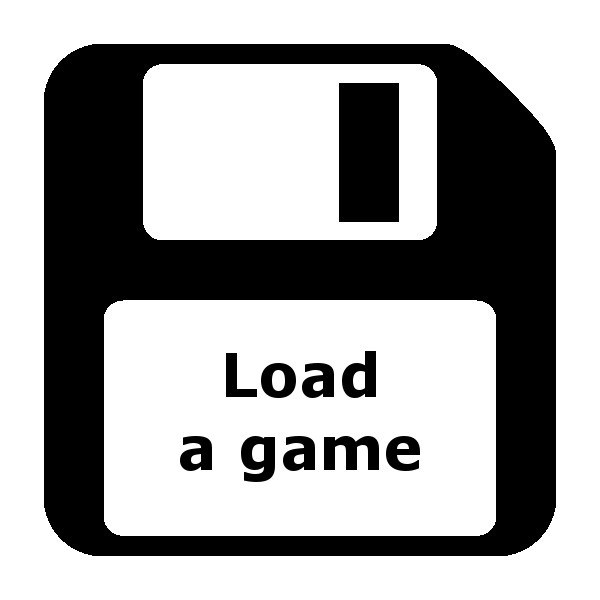
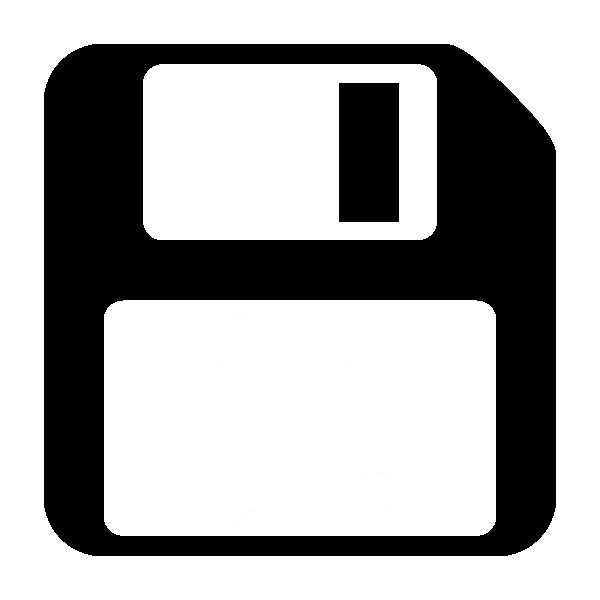
Language Integration + Chapter 8 Init
Language Integration + Chapter 8 Init

Changed region(s): [[0.39, 0.72, 0.72, 0.81], [0.36, 0.57, 0.63, 0.66], [0.3, 0.72, 0.36, 0.81]]

diff --git a/C007_LunchBreak/Outro/Script.js b/C007_LunchBreak/Outro/Script.js
@@ -24,35 +24,31 @@ function C007_LunchBreak_Outro_Run() {
 	// Text for eating alone
 	if (C007_LunchBreak_ActorSelect_Actor == "") {
 		if (TextPhase >= 0) DrawText(ctx, GetText("EatAlone1"), 400, 150, "White");
-		if (TextPhase >= 1) DrawText(ctx, GetText("EatAlone2"), 400, 250, "White");
-		if (TextPhase >= 2) DrawText(ctx, GetText("EatAlone3"), 400, 350, "White");
-		if (TextPhase >= 3) DrawText(ctx, GetText("EatAlone4"), 400, 450, "White");
+		if (TextPhase >= 1) DrawText(ctx, GetText("EatAlone2"), 400, 300, "White");
+		if (TextPhase >= 2) DrawText(ctx, GetText("EatAlone3"), 400, 450, "White");
 	}
 
 	// Text for no food leave
 	if ((C007_LunchBreak_ActorSelect_Actor != "") && C007_LunchBreak_ActorSelect_NoFood) {
 		if (TextPhase >= 0) DrawText(ctx, GetText("NoFood1"), 400, 150, "White");
-		if (TextPhase >= 1) DrawText(ctx, GetText("NoFood2"), 400, 250, "White");
-		if (TextPhase >= 2) DrawText(ctx, GetText("NoFood3"), 400, 350, "White");
-		if (TextPhase >= 3) DrawText(ctx, GetText("NoFood4"), 400, 450, "White");
+		if (TextPhase >= 1) DrawText(ctx, GetText("NoFood2"), 400, 300, "White");
+		if (TextPhase >= 2) DrawText(ctx, GetText("NoFood3"), 400, 450, "White");
 	}
 
 	// Text for early/evil leave
 	if ((C007_LunchBreak_ActorSelect_Actor != "") && (C007_LunchBreak_ActorSelect_EarlyLeave || C007_LunchBreak_ActorSelect_EvilEnding) && !C007_LunchBreak_ActorSelect_NoFood) {
 		if ((TextPhase >= 0) && !C007_LunchBreak_ActorSelect_EvilEnding) DrawText(ctx, GetText("Early1"), 400, 150, "White");
 		if ((TextPhase >= 0) && C007_LunchBreak_ActorSelect_EvilEnding) DrawText(ctx, GetText("Evil1"), 400, 150, "White");
-		if (TextPhase >= 1) DrawText(ctx, GetText("EvilEarly2"), 400, 250, "White");
-		if (TextPhase >= 2) DrawText(ctx, GetText("EvilEarly3"), 400, 350, "White");
-		if (TextPhase >= 3) DrawText(ctx, GetText("EvilEarly4"), 400, 450, "White");
+		if (TextPhase >= 1) DrawText(ctx, GetText("EvilEarly2"), 400, 300, "White");
+		if (TextPhase >= 2) DrawText(ctx, GetText("EvilEarly3"), 400, 450, "White");
 	}
 
 	// Text for eating with someone
 	if ((C007_LunchBreak_ActorSelect_Actor != "") && !C007_LunchBreak_ActorSelect_EarlyLeave && !C007_LunchBreak_ActorSelect_EvilEnding && !C007_LunchBreak_ActorSelect_NoFood) {
 		if (TextPhase >= 0) DrawText(ctx, GetText("RegularBonus1"), 400, 150, "White");
-		if ((TextPhase >= 1) && C007_LunchBreak_ActorSelect_BonusDone) DrawText(ctx, GetText("Bonus2"), 400, 250, "White");
-		if ((TextPhase >= 1) && !C007_LunchBreak_ActorSelect_BonusDone) DrawText(ctx, GetText("Regular2"), 400, 250, "White");
-		if (TextPhase >= 2) DrawText(ctx, GetText("RegularBonus3"), 400, 350, "White");
-		if (TextPhase >= 3) DrawText(ctx, GetText("RegularBonus4"), 400, 450, "White");
+		if ((TextPhase >= 1) && C007_LunchBreak_ActorSelect_BonusDone) DrawText(ctx, GetText("Bonus2"), 400, 300, "White");
+		if ((TextPhase >= 1) && !C007_LunchBreak_ActorSelect_BonusDone) DrawText(ctx, GetText("Regular2"), 400, 300, "White");
+		if (TextPhase >= 2) DrawText(ctx, GetText("RegularBonus3"), 400, 450, "White");
 	}
 	
 }
@@ -64,8 +60,8 @@ function C007_LunchBreak_Outro_Click() {
 	TextPhase++;
 			
 	// Jump to lunch on phase 3
-	if (TextPhase >= 4) {
-		//SaveMenu("C008", "Intro");
+	if (TextPhase >= 3) {
+		SaveMenu("C008_DramaClass", "Intro");
 	}
 
 }

diff --git a/Common.js b/Common.js
@@ -125,8 +125,8 @@ function ReadCSV(Array, FileName) {
 
 // Returns a working language if translation isn't fully ready
 function GetWorkingLanguage() {
-	if ((CurrentLanguageTag == "FR") && ((CurrentChapter == "C000_Intro") || (CurrentChapter == "C001_BeforeClass") || (CurrentChapter == "C999_Common"))) return "FR";
-	if ((CurrentLanguageTag == "CN") && (CurrentChapter == "C000_Intro")) return "CN";
+	if ((CurrentLanguageTag == "FR") && ((CurrentChapter == "C000_Intro") || (CurrentChapter == "C001_BeforeClass") || (CurrentChapter == "C002_FirstClass") || (CurrentChapter == "C999_Common"))) return "FR";
+	if ((CurrentLanguageTag == "CN") && ((CurrentChapter == "C000_Intro") || (CurrentChapter == "C005_GymClass") || (CurrentChapter == "C999_Common"))) return "CN";
 	return "EN";
 }
 
@@ -208,7 +208,7 @@ function GetText(Tag) {
 		Tag = Tag.trim().toUpperCase();
 		for (var T = 0; T < CurrentText.length; T++)
 			if (CurrentText[T][TextTag].trim().toUpperCase() == Tag)
-				return CurrentText[T][TextContent];
+				return CurrentText[T][TextContent].trim();
 		
 		// Returns an error message
 		return "MISSING TEXT FOR TAG: " + Tag;

diff --git a/C008_DramaClass/Intro/Script.js b/C008_DramaClass/Intro/Script.js
@@ -1,0 +1,28 @@
+// Chapter 8 - Drama Class Load
+function C008_DramaClass_Intro_Load() {
+
+	// Time is always 13:00 on the intro, no timer
+	StopTimer(13.00 * 60 * 60 * 1000);
+	
+}
+
+// Chapter 8 - Drama Class Run
+function C008_DramaClass_Intro_Run() {
+	
+	// Paints the background
+	var ctx = document.getElementById("MainCanvas").getContext("2d");
+	DrawImage(ctx, CurrentChapter + "/" + CurrentScreen + "/Background.jpg", 0, 0);
+
+	// Write the chapter introduction
+	DrawText(ctx, GetText("Intro1"), 600, 150, "White");
+	if (TextPhase >= 1) DrawText(ctx, GetText("Intro2"), 600, 250, "White");
+	if (TextPhase >= 2) DrawText(ctx, GetText("Intro3"), 600, 350, "White");
+	if (TextPhase >= 3) DrawText(ctx, GetText("Intro4"), 600, 450, "White");
+
+}
+
+// Chapter 8 - Drama Class Click
+function C008_DramaClass_Intro_Click() {
+	TextPhase++;
+	if (TextPhase >= 4) SetScene(CurrentChapter, "JuliaIntro");
+}

diff --git a/SaveState.js b/SaveState.js
@@ -19,7 +19,7 @@ function SaveStateGetSummary(SlotNumber) {
 		if (localStorage.getItem("SaveGameVersion" + SN) == SaveGameVersion) {
 			var SaveStateChapter = localStorage.getItem("CurrentChapter" + SN);
 			var SaveStateDateTime = localStorage.getItem("SaveGameDateTime" + SN);
-			Summary = "Slot " + SN + " - Chapter " + SaveStateChapter.substring(3, 4) + "|" + SaveStateDateTime;
+			Summary = GetText("Slot") + " " + SN + " - " + GetText("Chapter") + " " + SaveStateChapter.substring(3, 4) + "|" + SaveStateDateTime;
 		}
 		
 	// Returns the summary
@@ -31,7 +31,7 @@ function SaveStateGetSummary(SlotNumber) {
 function SaveStateSlotSummary() {
 
 	// If the current stage is loaded
-	if (CurrentStage != null)
+	if ((CurrentStage != null) && (CurrentText != null))
 		if (CurrentStage[1][StageInteractionText] == "Slot 1") {
 
 			// For each save slots, we load the summary

diff --git a/C008_DramaClass/JuliaIntro/Script.js b/C008_DramaClass/JuliaIntro/Script.js
@@ -1,0 +1,30 @@
+var C008_DramaClass_JuliaIntro_CurrentStage = 0;
+
+// Chapter 8 - Julia Intro Load
+function C008_DramaClass_JuliaIntro_Load() {
+
+	// Set the timer limits at 14:00
+	StartTimer(14 * 60 * 60 * 1000, "C008_DramaClass", "Outro");
+
+	// Load the scene parameters
+	ActorLoad("Julia", "");
+	LoadInteractions();
+	LeaveIcon = "";
+	
+	// If Julia doesn't like the player, we skip the "hug" intro
+	if (ActorGetValue(ActorLove) < 1) C008_DramaClass_JuliaIntro_CurrentStage = 20;
+
+}
+
+// Chapter 8 - Julia Intro Run
+function C008_DramaClass_JuliaIntro_Run() {
+	BuildInteraction(C008_DramaClass_JuliaIntro_CurrentStage);
+}
+
+// Chapter 8 - Julia Click
+function C008_DramaClass_JuliaIntro_Click() {	
+
+	// Regular interactions
+	ClickInteraction(C008_DramaClass_JuliaIntro_CurrentStage);
+
+}

diff --git a/index.html b/index.html
@@ -79,6 +79,8 @@
 <script src="C007_LunchBreak/Jennifer/Script.js"></script>
 <script src="C007_LunchBreak/JenniferTennis/Script.js"></script>
 <script src="C007_LunchBreak/Outro/Script.js"></script>
+<script src="C008_DramaClass/Intro/Script.js"></script>
+<script src="C008_DramaClass/JuliaIntro/Script.js"></script>
 <script src="C999_Common/GameLoad/Script.js"></script>
 <script src="C999_Common/GameSave/Script.js"></script>
 <script src="C999_Common/Player/Script.js"></script>

diff --git a/C999_Common/GameLoad/Script.js b/C999_Common/GameLoad/Script.js
@@ -8,8 +8,13 @@ function C999_Common_GameLoad_Load() {
 
 // Chapter Common - GameLoad Run
 function C999_Common_GameLoad_Run() {
+	
+	// Build the game loading screen
 	SaveStateSlotSummary();
-	BuildInteraction(C999_Common_GameLoad_CurrentStage);	
+	BuildInteraction(C999_Common_GameLoad_CurrentStage);
+	var ctx = document.getElementById("MainCanvas").getContext("2d");
+	DrawText(ctx, GetText("LoadGame"), 900, 420, "black");
+	
 }
 
 // Chapter Common - GameLoad Click

diff --git a/C999_Common/GameSave/Script.js b/C999_Common/GameSave/Script.js
@@ -11,8 +11,13 @@ function C999_Common_GameSave_Load() {
 
 // Chapter Common - GameSave Run
 function C999_Common_GameSave_Run() {
+	
+	// Build the game saving screen	
 	SaveStateSlotSummary();
 	BuildInteraction(C999_Common_GameSave_CurrentStage);
+	var ctx = document.getElementById("MainCanvas").getContext("2d");
+	DrawText(ctx, GetText("SaveGame"), 900, 420, "black");
+	
 }
 
 // Chapter Common - GameSave Click
